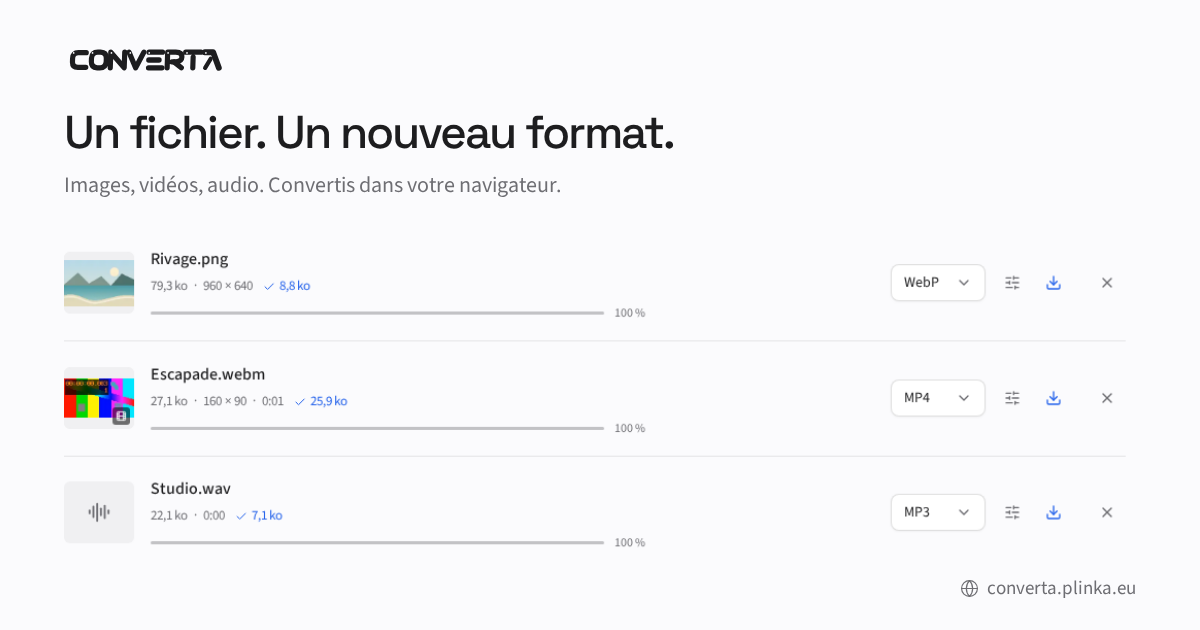
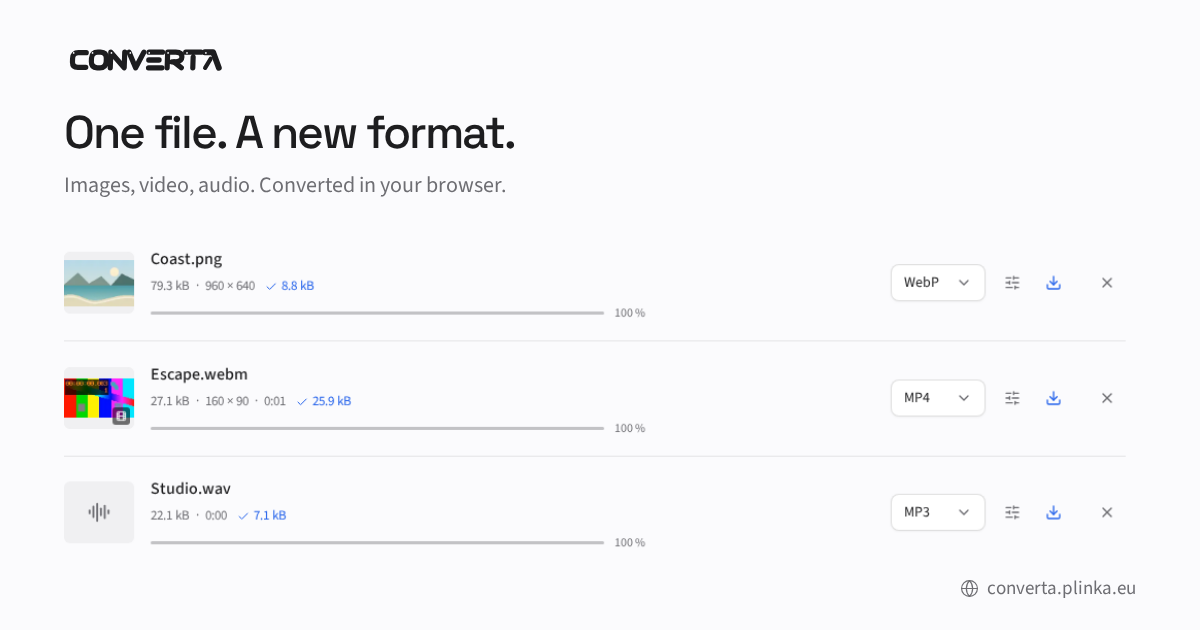
Render the social card and sharing metadata in English

diff --git a/scripts/render-social.ts b/scripts/render-social.ts
@@ -1,7 +1,7 @@
 import { chromium } from "@playwright/test";
 import { preview } from "vite";
 import { createServer } from "node:http";
-import { readFile, writeFile, mkdir, stat } from "node:fs/promises";
+import { readFile, writeFile, mkdir, stat, copyFile } from "node:fs/promises";
 import { fileURLToPath } from "node:url";
 const root = fileURLToPath(new URL("../", import.meta.url));
 const directory = `${root}artwork/social/`;
@@ -16,13 +16,14 @@ try {
   const page = await browser.newPage({
     viewport: { width: 1200, height: 650 },
     deviceScaleFactor: 1,
-    locale: "fr-FR",
+    locale: "en-US",
     colorScheme: "light",
     reducedMotion: "reduce",
   });
   await page.route("https://api.github.com/**", (route) =>
     route.fulfill({ json: { stargazers_count: 0 } }),
   );
+  await page.addInitScript(() => localStorage.setItem("converta.language", "en"));
   await page.goto("http://127.0.0.1:5503");
   const theme = await page.evaluate(() => {
     const s = getComputedStyle(document.documentElement);
@@ -46,9 +47,9 @@ try {
     }
   }, svg);
   await page.locator('input[type="file"]').setInputFiles([
-    { name: "Rivage.png", mimeType: "image/png", buffer: Buffer.from(png, "base64") },
+    { name: "Coast.png", mimeType: "image/png", buffer: Buffer.from(png, "base64") },
     {
-      name: "Escapade.webm",
+      name: "Escape.webm",
       mimeType: "video/webm",
       buffer: await readFile(`${root}tests/fixtures/sample.webm`),
     },
@@ -58,12 +59,16 @@ try {
       buffer: await readFile(`${root}tests/fixtures/tone.wav`),
     },
   ]);
-  await page.getByRole("combobox", { name: "Format pour Rivage.png" }).click();
+  await page.getByRole("combobox", { name: "Format for Coast.png" }).click();
   await page.getByRole("option", { name: "WebP", exact: true }).click();
-  await page.getByRole("button", { name: "Convertir 3 fichiers", exact: true }).click();
-  await page.waitForFunction(() => document.querySelectorAll(".download-button").length === 3, {
-    timeout: 45000,
-  });
+  await page.getByRole("button", { name: "Convert 3 files", exact: true }).click();
+  await page.waitForFunction(
+    () => document.querySelectorAll(".download-button").length === 3,
+    undefined,
+    {
+      timeout: 45000,
+    },
+  );
   await page.evaluate(async () => {
     await document.fonts.ready;
     await Promise.all([...document.images].map((img) => img.decode()));
@@ -129,8 +134,9 @@ try {
     await document.fonts.ready;
     await Promise.all([...document.images].map((image) => image.decode()));
   });
-  const output = `${root}apps/web/public/social/converta.png`;
+  const output = `${root}apps/web/public/social/converta-en.png`;
   await page.screenshot({ path: output, animations: "disabled" });
+  await copyFile(output, `${root}apps/web/public/social/converta.png`);
   console.log(`Social image: 1200 × 630 · ${Math.round((await stat(output)).size / 1024)} KiB`);
 } finally {
   await browser.close();

diff --git a/apps/web/index.html b/apps/web/index.html
@@ -12,31 +12,31 @@
     <link rel="canonical" href="https://converta.plinka.eu/" />
     <meta property="og:type" content="website" />
     <meta property="og:site_name" content="Converta" />
-    <meta property="og:locale" content="fr_FR" />
+    <meta property="og:locale" content="en_US" />
     <meta property="og:url" content="https://converta.plinka.eu/" />
-    <meta property="og:title" content="Converta — Un fichier. Un nouveau format." />
+    <meta property="og:title" content="Converta — One file. A new format." />
     <meta
       property="og:description"
-      content="Images, vidéos et audio. Convertissez vos fichiers localement, dans votre navigateur."
+      content="Images, video and audio. Convert files locally, in your browser."
     />
-    <meta property="og:image" content="https://converta.plinka.eu/social/converta.png" />
+    <meta property="og:image" content="https://converta.plinka.eu/social/converta-en.png" />
     <meta property="og:image:type" content="image/png" />
     <meta property="og:image:width" content="1200" />
     <meta property="og:image:height" content="630" />
     <meta
       property="og:image:alt"
-      content="Converta : une image, une vidéo et un fichier audio convertis dans le navigateur, avec leurs aperçus et formats de sortie."
+      content="Converta: an image, a video and an audio file converted in the browser, with previews and output formats."
     />
     <meta name="twitter:card" content="summary_large_image" />
-    <meta name="twitter:title" content="Converta — Un fichier. Un nouveau format." />
+    <meta name="twitter:title" content="Converta — One file. A new format." />
     <meta
       name="twitter:description"
-      content="Images, vidéos et audio. Convertissez vos fichiers localement, dans votre navigateur."
+      content="Images, video and audio. Convert files locally, in your browser."
     />
-    <meta name="twitter:image" content="https://converta.plinka.eu/social/converta.png" />
+    <meta name="twitter:image" content="https://converta.plinka.eu/social/converta-en.png" />
     <meta
       name="twitter:image:alt"
-      content="Converta : une image, une vidéo et un fichier audio convertis dans le navigateur, avec leurs aperçus et formats de sortie."
+      content="Converta: an image, a video and an audio file converted in the browser, with previews and output formats."
     />
     <link rel="icon" type="image/svg+xml" href="/favicon.svg" />
     <style>

diff --git a/artwork/social/index.html b/artwork/social/index.html
@@ -1,9 +1,9 @@
 <!doctype html>
-<html lang="fr">
+<html lang="en">
   <head>
     <meta charset="utf-8" />
     <meta name="viewport" content="width=1200" />
-    <title>Converta — image de partage</title>
+    <title>Converta — social preview</title>
     <link rel="stylesheet" href="/assets/theme.css" />
     <style>
       @font-face {
@@ -84,12 +84,12 @@
   </head>
   <body>
     <img class="logo" src="/assets/wordmark.svg" alt="Converta" />
-    <h1>Un fichier. Un nouveau format.</h1>
-    <p>Images, vidéos, audio. Convertis dans votre navigateur.</p>
+    <h1>One file. A new format.</h1>
+    <p>Images, video, audio. Converted in your browser.</p>
     <img
       class="product"
       src="/assets/conversion.png"
-      alt="Trois conversions terminées dans Converta : une image en WebP, une vidéo en MP4 et un fichier audio en MP3."
+      alt="Three completed conversions in Converta: an image to WebP, a video to MP4 and an audio file to MP3."
     />
     <span class="domain"
       ><svg

diff --git a/tests/e2e/sharing.spec.ts b/tests/e2e/sharing.spec.ts
@@ -26,9 +26,9 @@ test("les métadonnées initiales et la carte PNG sont prêtes au partage", asyn
   const response = await request.get("/");
   const html = await response.text();
   expect(html).toContain('property="og:image"');
-  expect(html).toContain("https://converta.plinka.eu/social/converta.png");
+  expect(html).toContain("https://converta.plinka.eu/social/converta-en.png");
   expect(html).toContain('name="twitter:card" content="summary_large_image"');
-  const image = await request.get("/social/converta.png");
+  const image = await request.get("/social/converta-en.png");
   expect(image.ok()).toBe(true);
   const bytes = await image.body();
   expect([bytes.readUInt32BE(16), bytes.readUInt32BE(20)]).toEqual([1200, 630]);

diff --git a/README.md b/README.md
@@ -2,7 +2,7 @@
 
 L’outil de conversion Plinka. Application statique : images, vidéo et audio sont traités **dans le navigateur**, sans upload, API de conversion ni backend.
 
-![Converta](apps/web/public/social/converta.png)
+![Converta](apps/web/public/social/converta-en.png)
 
 ## Démarrer en local
 
@@ -94,7 +94,7 @@ Le bouton GitHub en haut à droite révèle le nombre réel d’étoiles au surv
 
 ## Image de partage
 
-`artwork/social/index.html` compose une carte de 1 200 × 630 px avec le vrai logo, les fontes et couleurs locales, et une capture de trois fichiers réellement convertis par Converta. Le domaine et une icône globe apparaissent en bas à droite. Les métadonnées Open Graph/Twitter sont présentes dans le HTML initial.
+`artwork/social/index.html` compose une carte en anglais de 1 200 × 630 px avec le vrai logo, les fontes et couleurs locales, et une capture de trois fichiers réellement convertis par Converta. Le domaine et une icône globe apparaissent en bas à droite. Les métadonnées Open Graph/Twitter sont présentes dans le HTML initial.
 
 ```sh
 bun run build
@@ -102,4 +102,4 @@ bun run social:render
 bun run build
 ```
 
-Le second build intègre `apps/web/public/social/converta.png`. Le script utilise le port 5503 temporairement et conserve la capture de l’interface dans `artwork/social/assets/`. Il ne génère aucune image par IA et ne nécessite aucun service distant. Le mode de démonstration a été retiré du code de l’application.
+Le second build intègre `apps/web/public/social/converta-en.png`. Le script utilise le port 5503 temporairement et conserve la capture de l’interface dans `artwork/social/assets/`. Il ne génère aucune image par IA et ne nécessite aucun service distant. Le mode de démonstration a été retiré du code de l’application.
